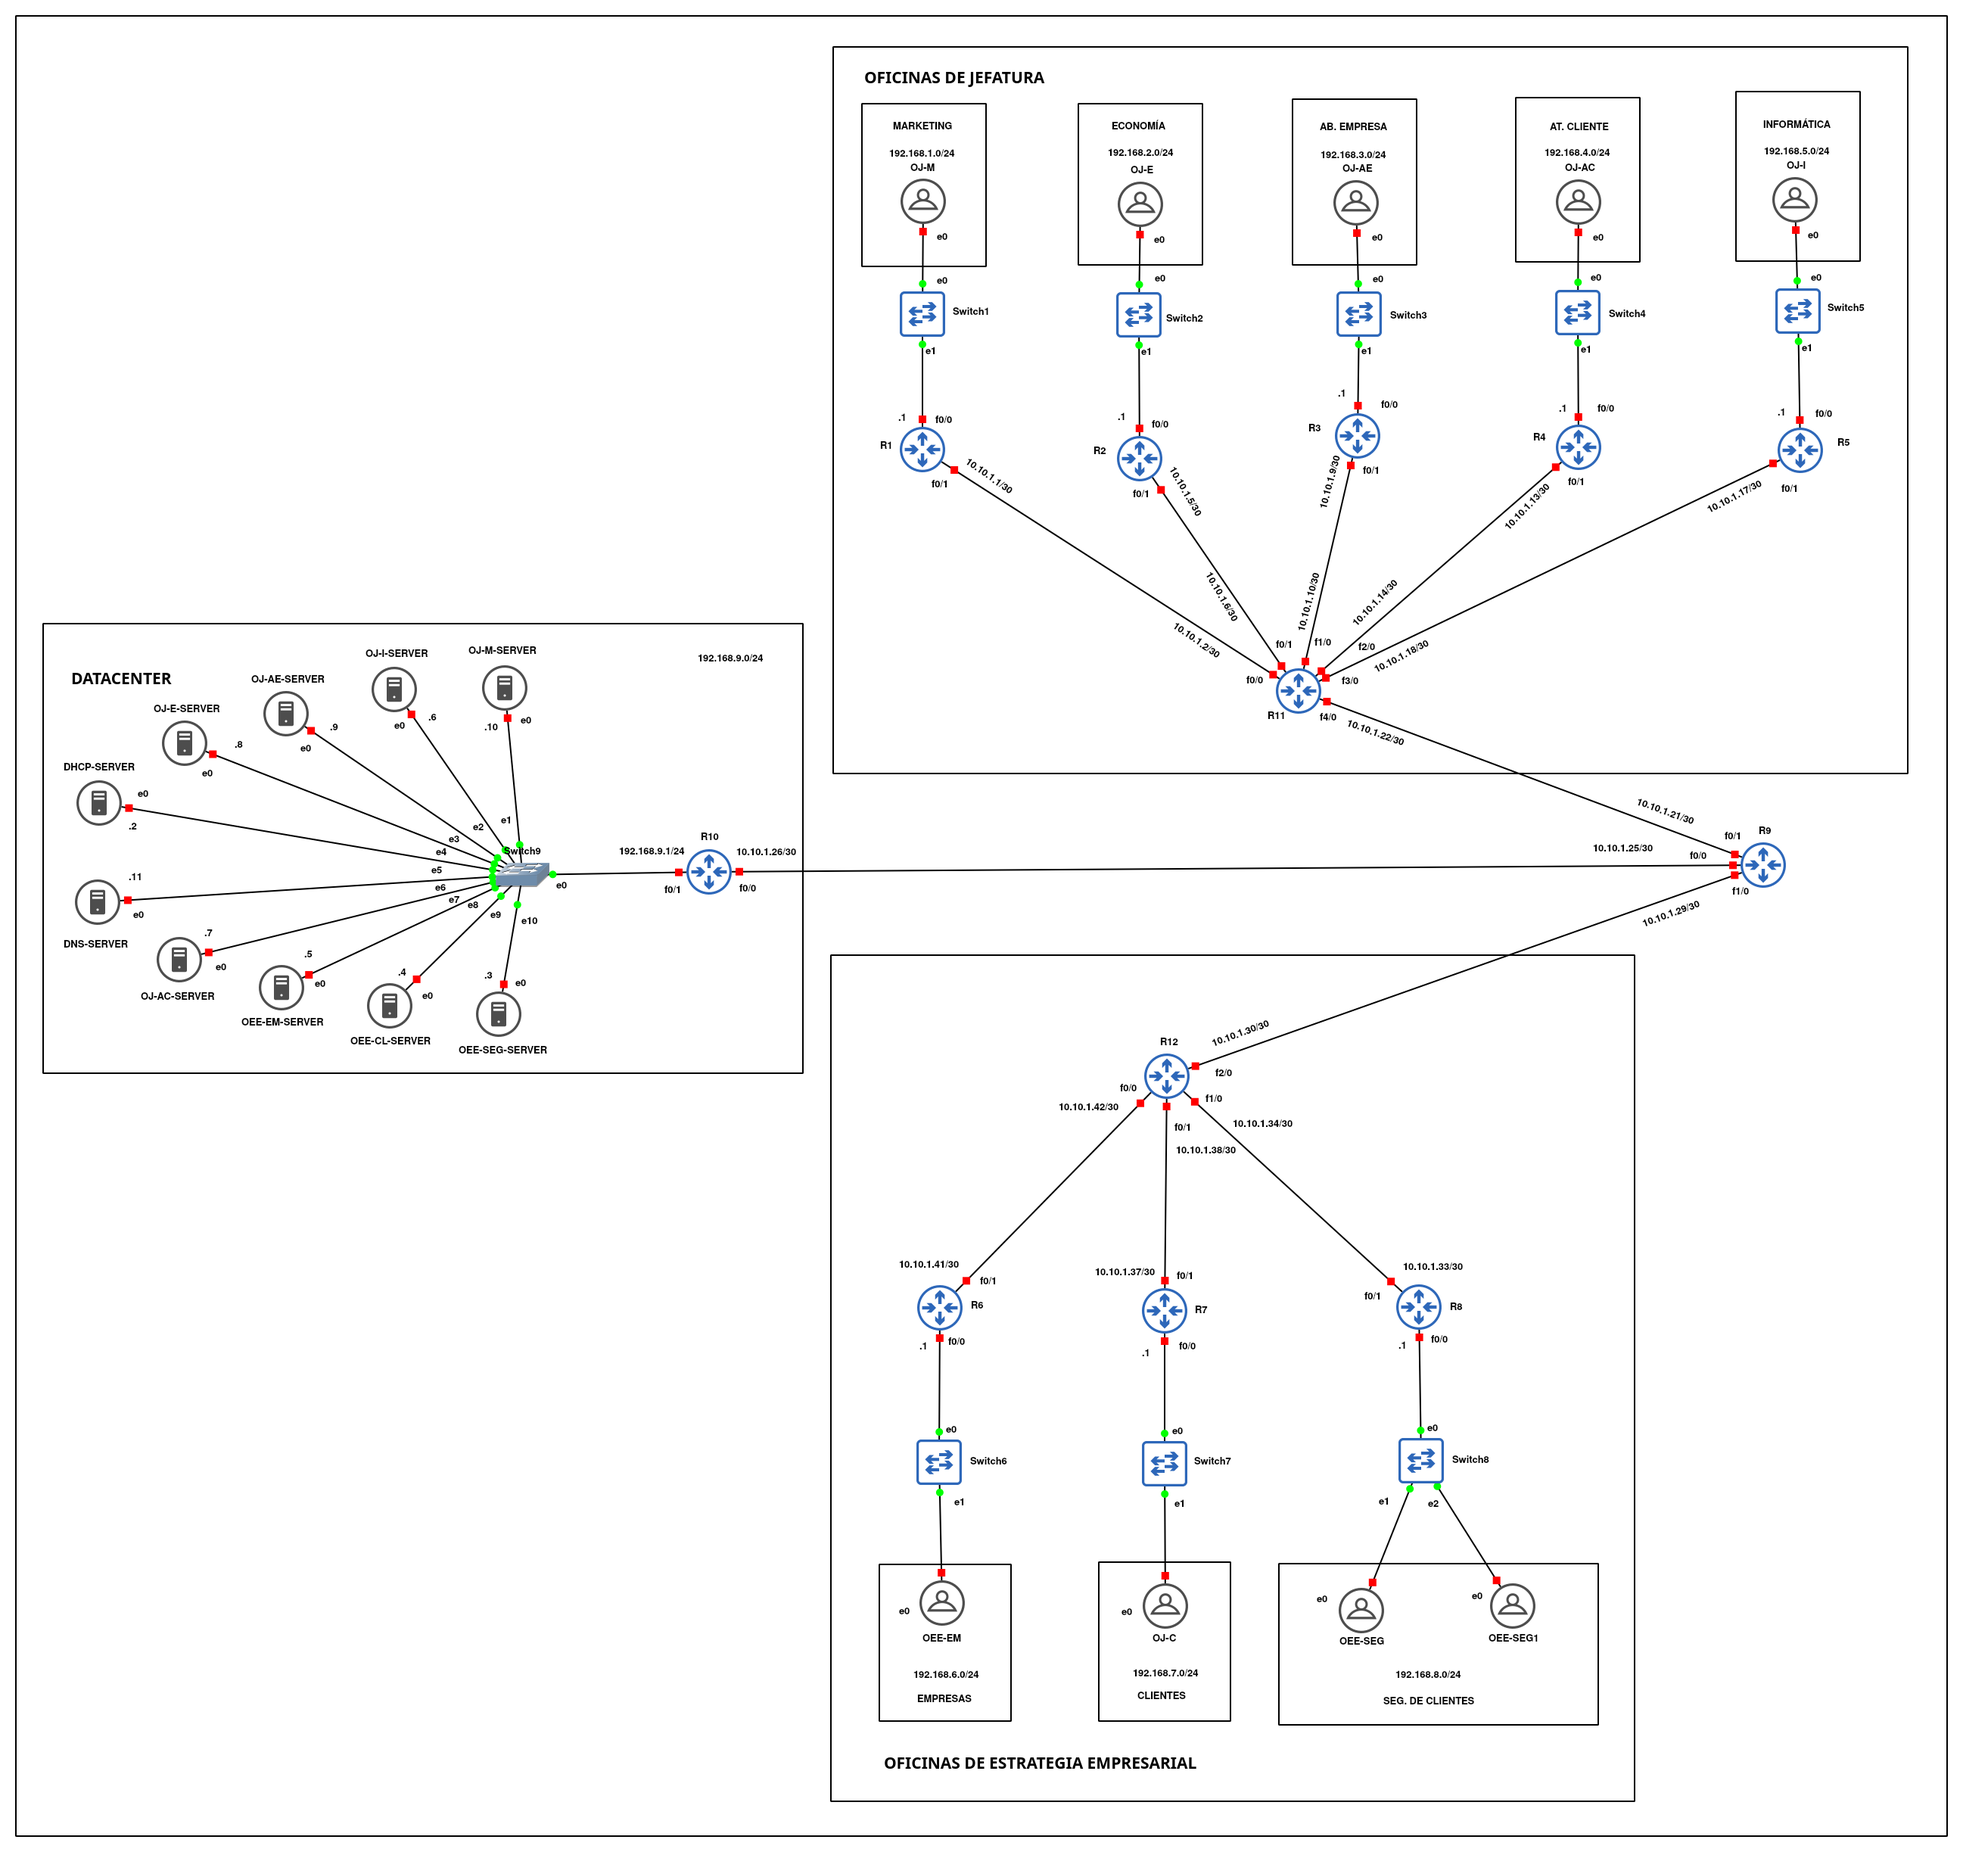
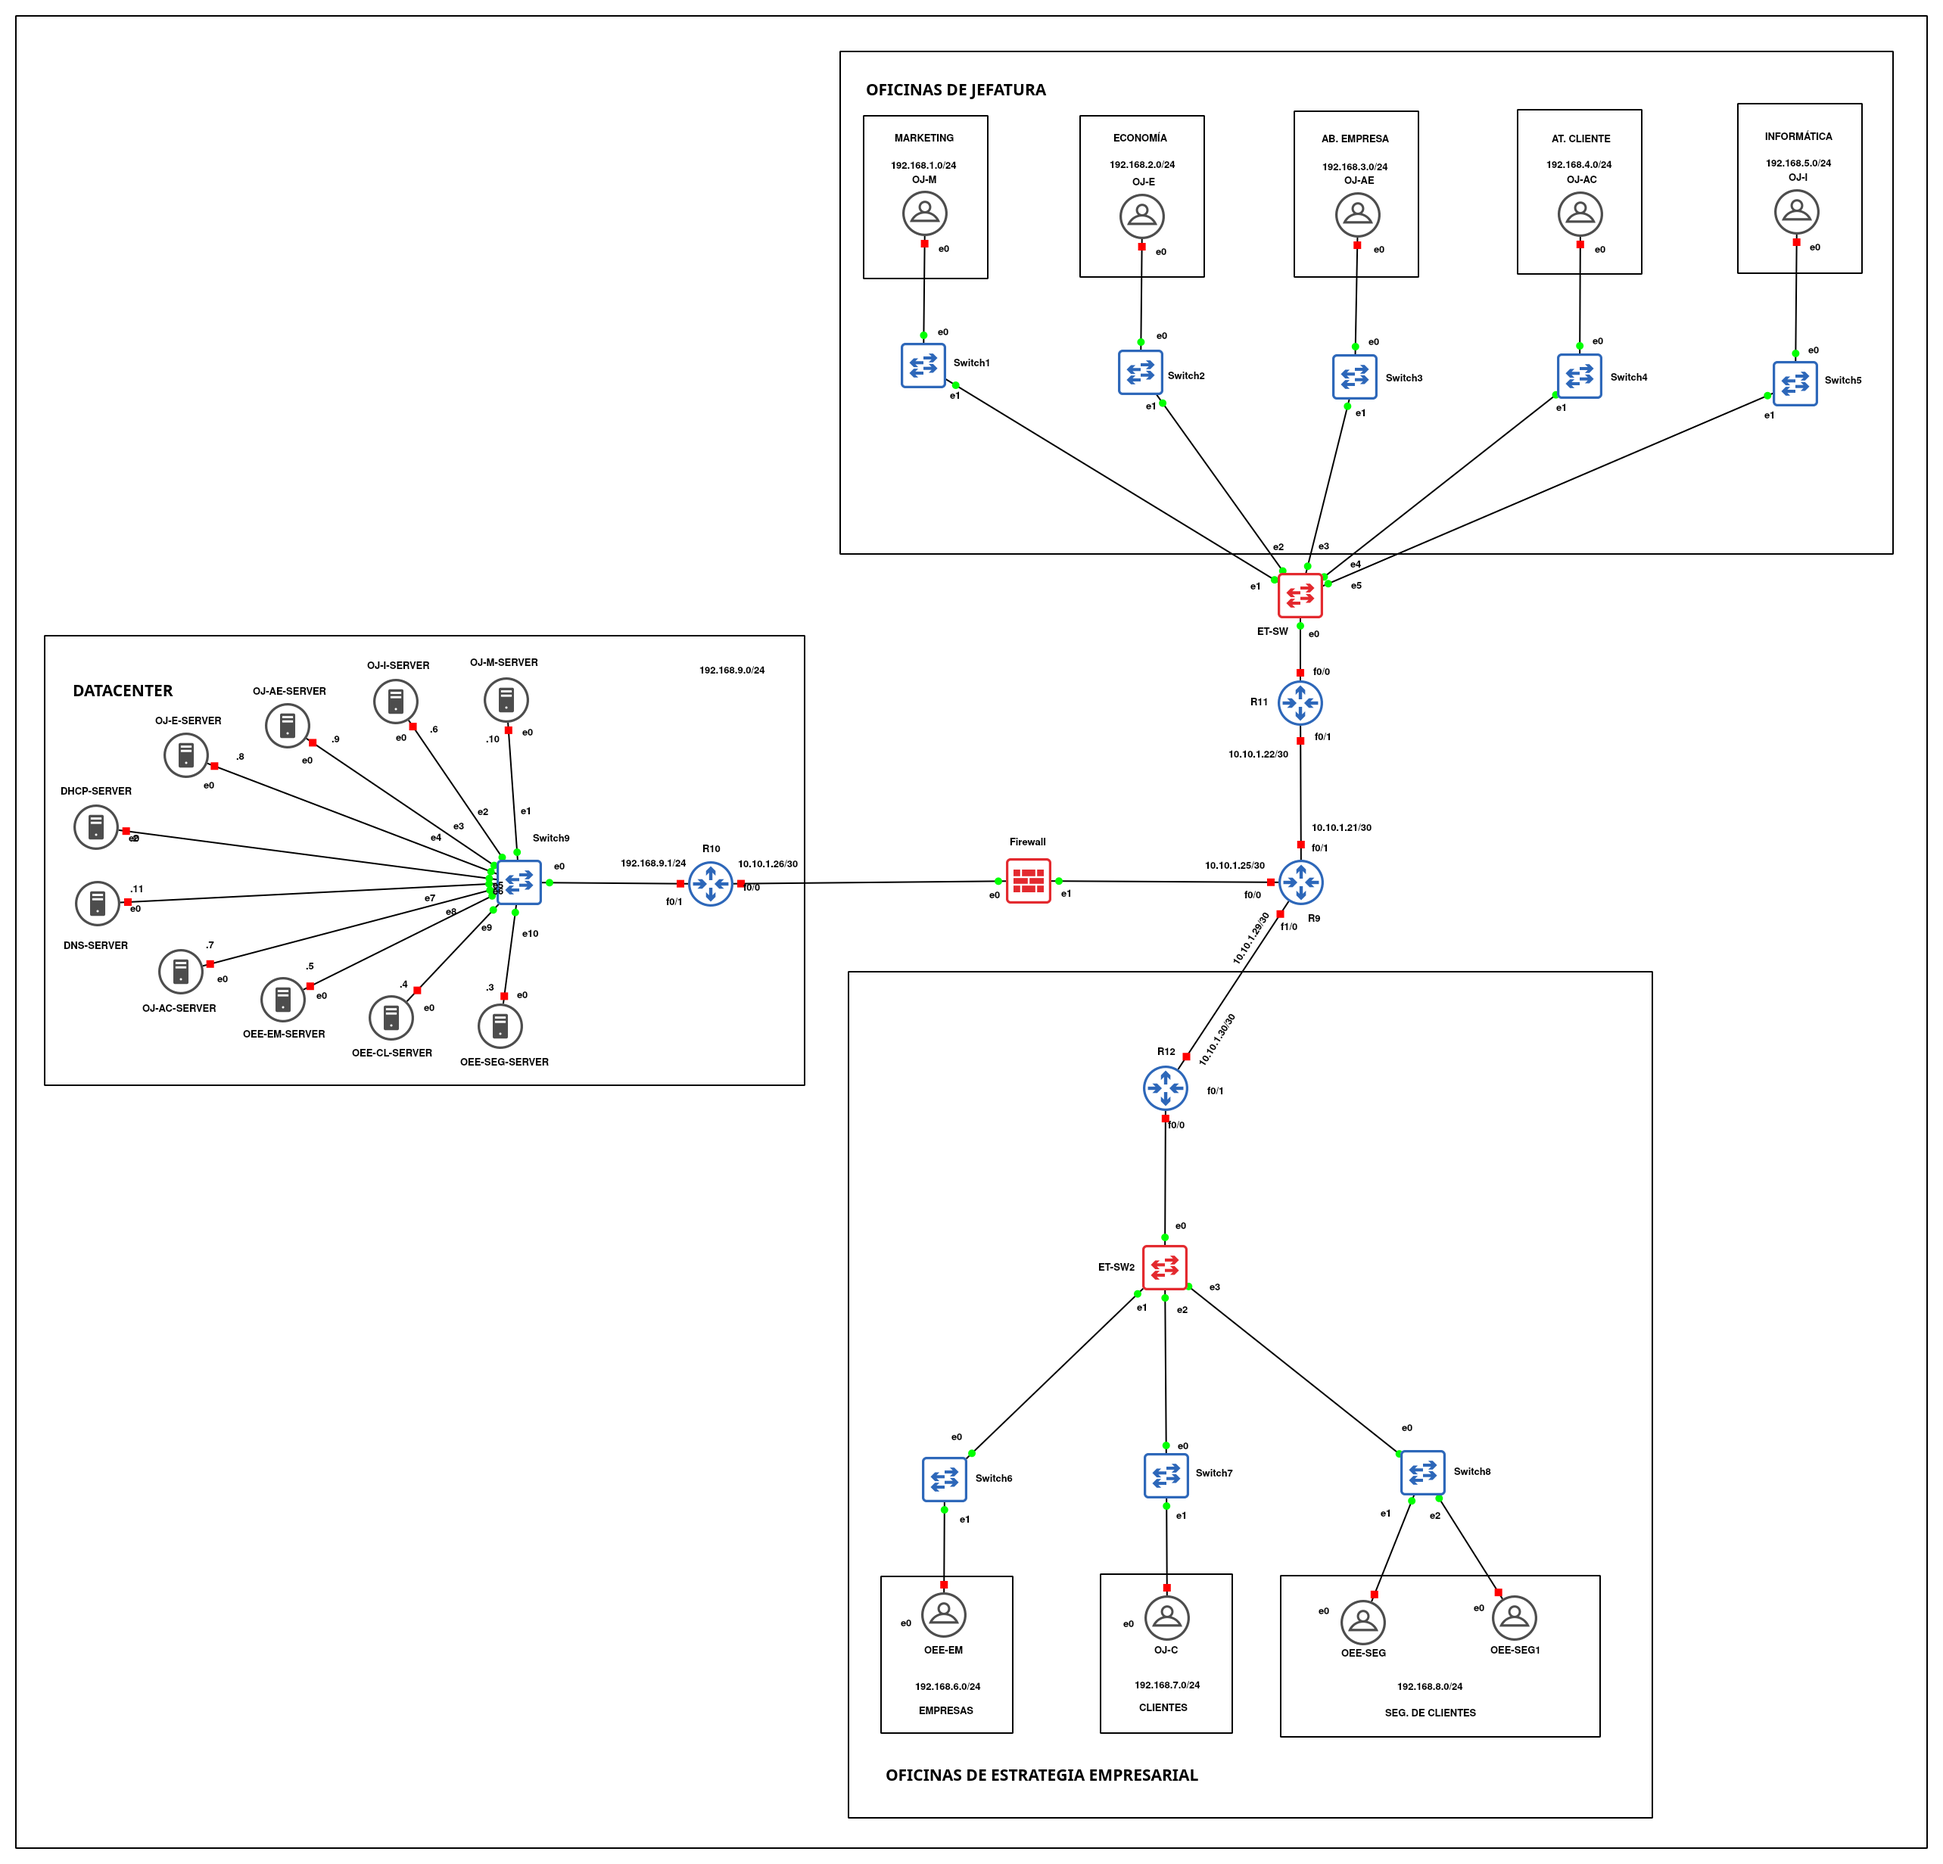
updated autories

diff --git a/js/index.js b/js/index.js
@@ -109,9 +109,12 @@ navbarElements.push({
       <li><b>Fecha: 27/01/2020: </b>Definición de las subnets en el archivo de configuración de DHCP para poder establecer los rangos de IP válidos para cada una.</li>
       <li><b>Fecha: 30/12/2020: </b>Implementación de políticas de enrutamiento en los routers mediante el uso de "ip route" para poder redireccionar a las subnets debidas en el enrutamiento. Y realización de pruebas con ping.</li>
       <li><b>Fecha: 01/01/2021: </b>Pruebas de solicitud DHCP en cada subnet para la asignación de IP's a las VPCS y realización de pruebas con "trace" para visualizar las redirecciones</li>
+      <li><b>Fecha: 18/01/2021: </b>Optimización de la cantidad de routers, fueron disminuidos y reemplazados por switches mediantes el uso de encapsulamiento dot1Q para la creación de VLANs.</li>
+      <li><b>Fecha: 24/01/2021: </b>Actualización del enrutamiento estático por uno dinámico (RIPv2).</li>
+      <li><b>Fecha: 27/01/2021: </b>Implementación de firewall en la topología.</li>
     </ul>
     <h3>Inconvenientes con el estudio del proyecto:</h3>
-    <p>Se tuvo la duda del tipo de conexión que usará la empresa para la comunicación entre la sede Central y la de atención al Cliente, podría ser conexión directa a través de fibra óptica, o a través de una red VPN. La solución más accesible sería por VPN la cual es la que se está implementando en el modelamiento.</p>
+    <p>Se tuvo la duda del tipo de conexión que usará la empresa para la comunicación entre la sede Central y la de atención al Cliente, podría ser conexión directa a través de fibra óptica, o a través de una red VPN. Usamos la opcion de la fibra por temas de costo en firewall. La conexion del dhcp con el protocolo dot1q ofrece conflictos en sus requerimientos.</p>
 
     <h3>Inconvenientes con la implementación:</h3>
     <p>Es complicado crear una topología que se vea de manera completa en un solo proyecto de gns3, así que la implementación se ha llevado por partes, mostrando cada sede, y también mostrando un resumen de interconexión entre las sedes.</p>
@@ -153,6 +156,10 @@ navbarElements.push({
     <h3>Auditoría de Instalación:</h3>
     <ul>
       <li>Para las conexiones en las sedes Central y Atención al Cliente se han usado IP estáticas, para la sede Trujillo se han usado IP dinámicas.</li>
+      <li>Se implementó enrutamiento dinámico RIP - RFC 2453 en todas las sedes a nivel IGP (Interior Gateway Protocol).</li>
+      <li>Se implementó enrutamiento dinámico BGP - RFC 1771 entre la sede Atención al Cliente y sede Central.</li>
+      <li>Se implementó un firewall entre los routers de Borde de la sedes Trujillo y Central y el router del servicio de Internet contratado.</li>
+      <li>Se implementó un firewall en los datacenters de Trujillo y Central con sus routers anexos.</li>
       <li>Todas las redes internas se está usando cable de red UTP CAT 6.</li>
       <li>En la sede Central se han usado routers 3660 y 7200 de Cisco como referencia.</li>
       <li>En la sede Atención al Cliente se han usado routers 3660 y 7200 de Cisco como referencia.</li>
@@ -161,13 +168,16 @@ navbarElements.push({
     
     <h3>Auditorías Operacional:</h3>
     <ul>
-      <li>La conexión entre las sedes Central y Atención al Cliente se ha priorizado que sea por VPN para reducir costos.</li>
+      <li>La conexión entre las sedes Central y Atención al Cliente será por enrutamiento BGP.</li>
+      <li>La conexión de los datacenter poseen un firewall tipo perimetral en toda la sede y dentro de ella para acceder a estos servidores.</li>
       <li>Los Routers usados tienen buena estabilidad y rendimiento pero pueden cambiarse por routers Cisco 2691 más accesibles.</li>
     </ul>
     
     <h3>Auditorías de eficiencia:</h3>
     <ul>
       <li>Se ha modelado de forma que se tenga la menor cantidad de Routers y más switches, para mejorar así el encaminamiento de la conexión entre los dispositivos.</li>
+      <li>Se a minimizado el número de firewalls conectando las sedes mas cercanas dando asi un único acceso a internet de estas 2 sedes evitando un doble firewall por sede, siendo que solo trujillo la única sede con una firewall personal.</li>
+      <li>Dada la forma de nuestra topología se nos es innecesario el uso de un protocolo STP, y ademas, preferimos el uso de RIPs puesto que el encaminamiento dentro de las sedes puede ser mejor percibido por la métrica vector-distancia, dado que no existe un camino que exceda los 15 enlaces.</li>
     </ul>
     
     <h3>Auditorías de seguridad:</h3>
